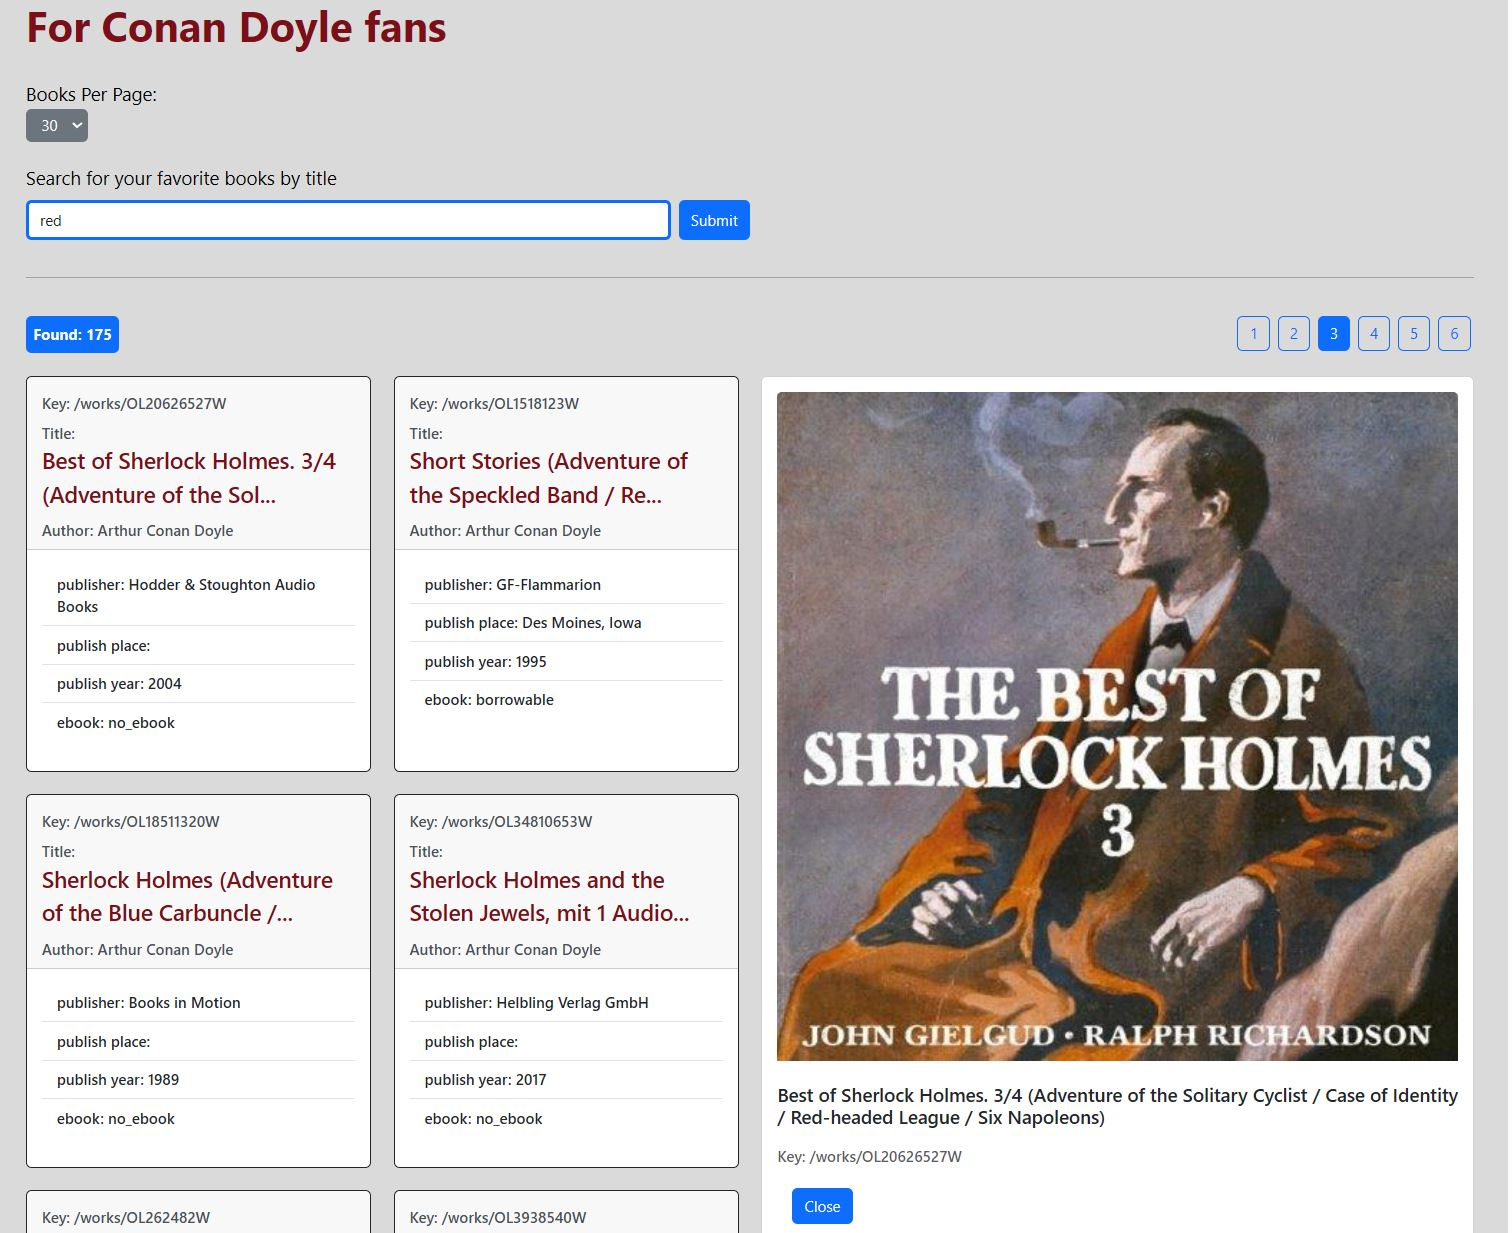
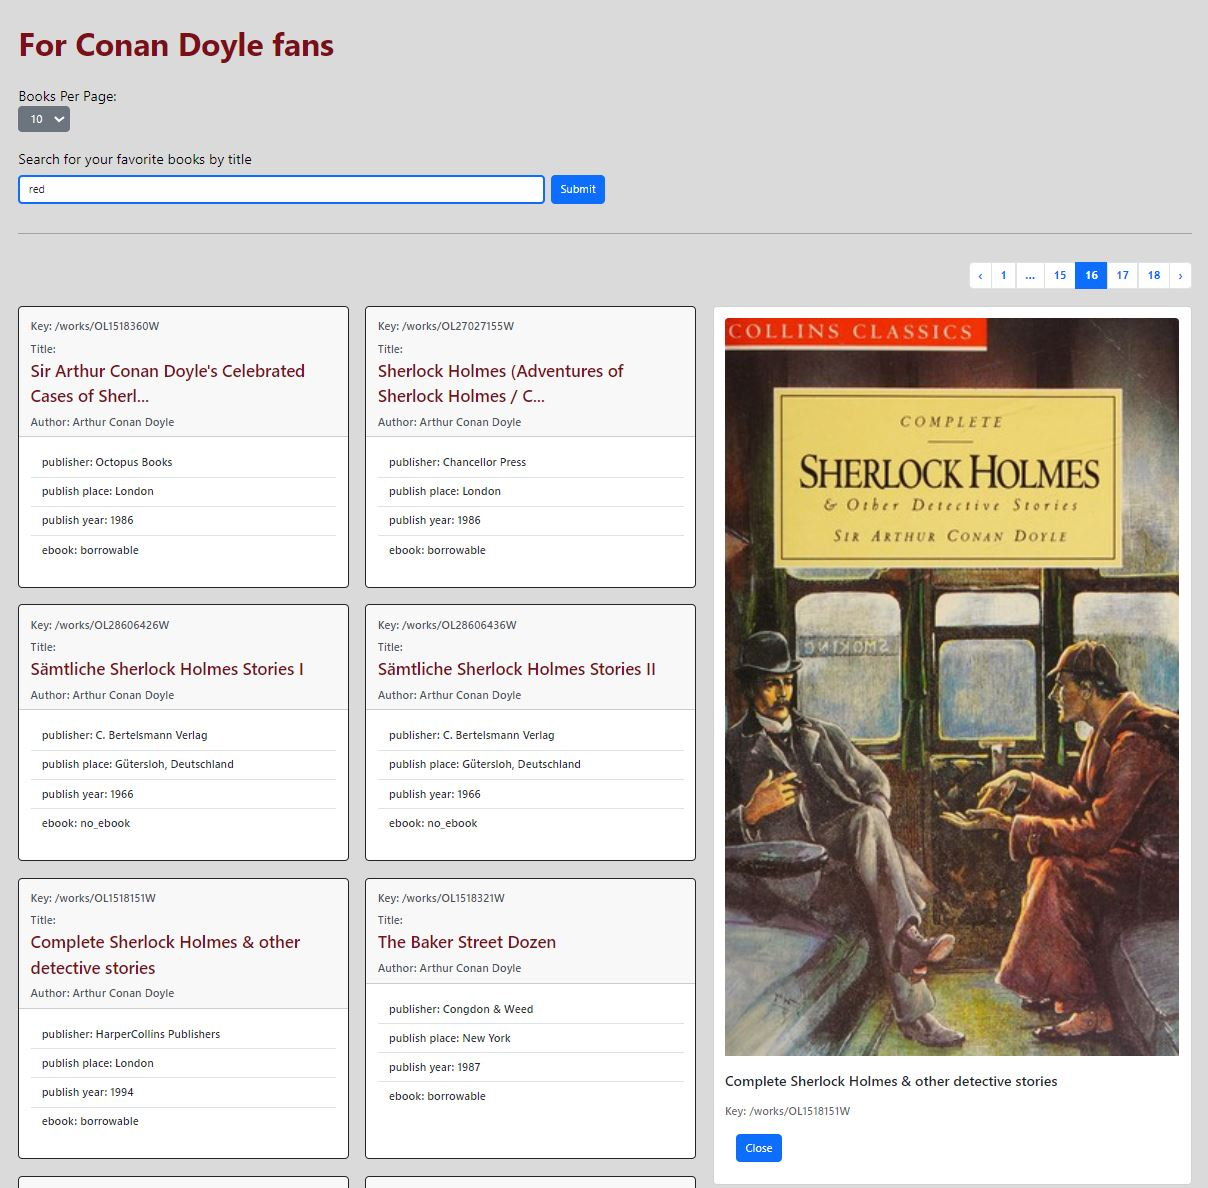
fix: fix styles

diff --git a/src/components/BookDetails/BookDetails.tsx b/src/components/BookDetails/BookDetails.tsx
@@ -45,14 +45,14 @@ export default function BookDetails() {
 
   if (detailsLoading) {
     return (
-      <div className="col">
+      <div className="col-5">
         <h2 data-testid="loading">Loading...</h2>
       </div>
     );
   } else {
     if (bookDetails) {
       return (
-        <div className="col">
+        <div className="col-5">
           <div ref={ref}>
             <DetailsSection bookDetails={bookDetails} />
           </div>
@@ -60,7 +60,7 @@ export default function BookDetails() {
       );
     } else {
       return (
-        <div className="col">
+        <div className="col-5">
           <h2> Nothing found, try again! </h2>
         </div>
       );
